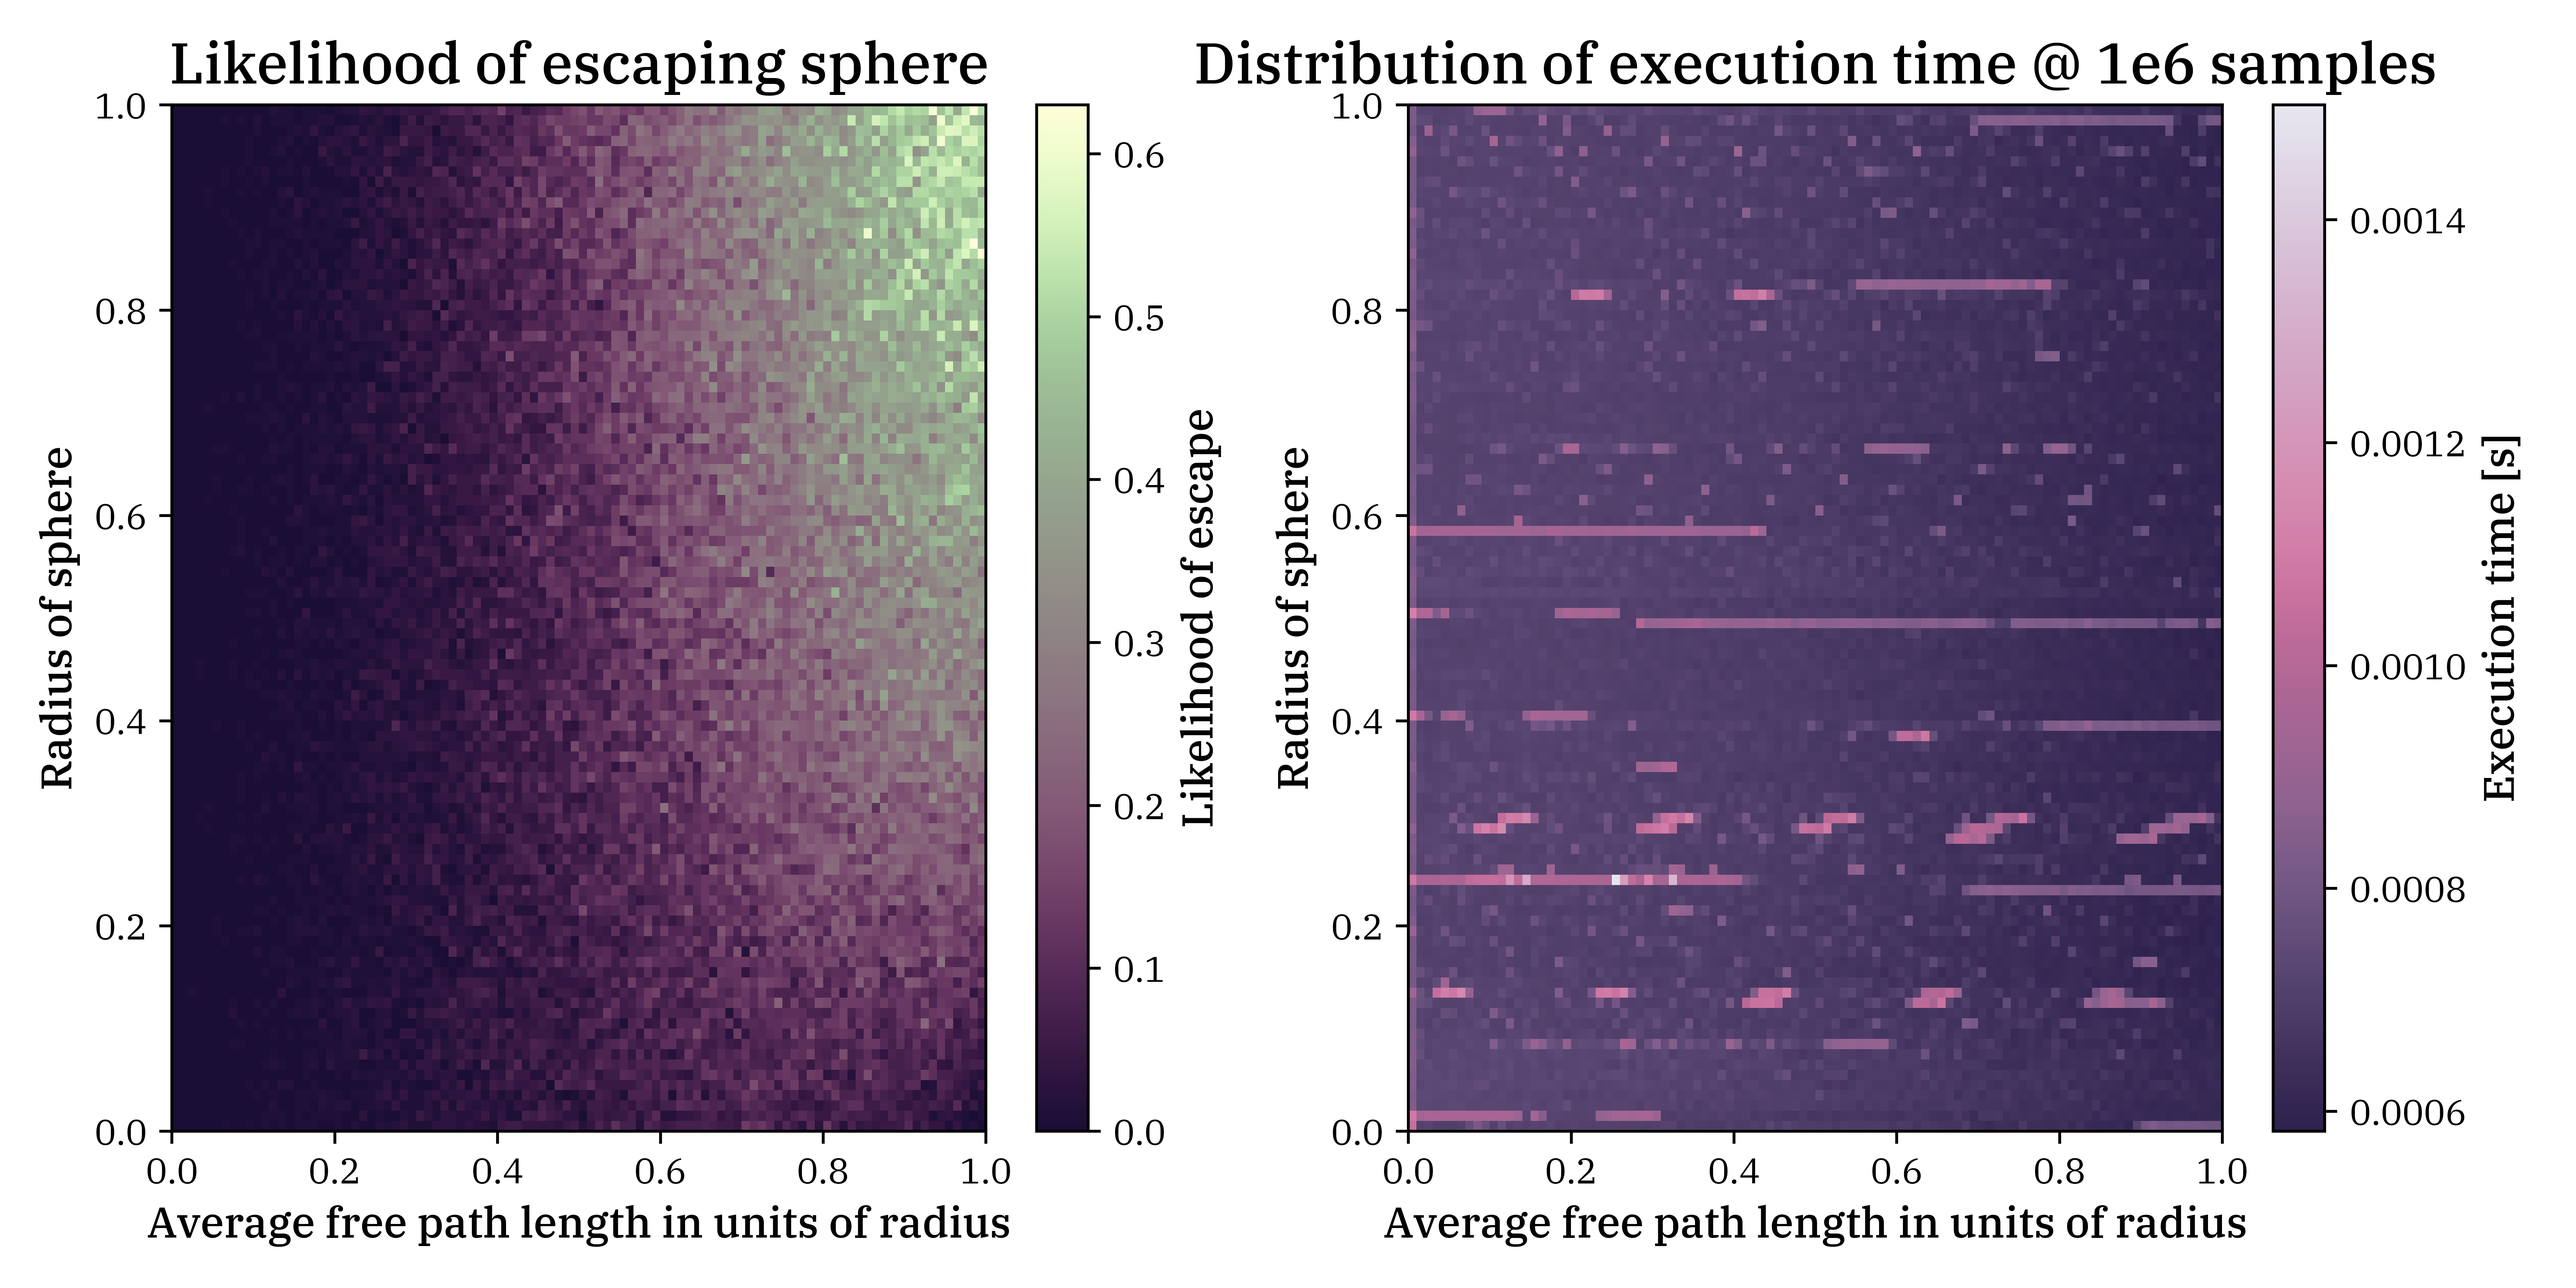
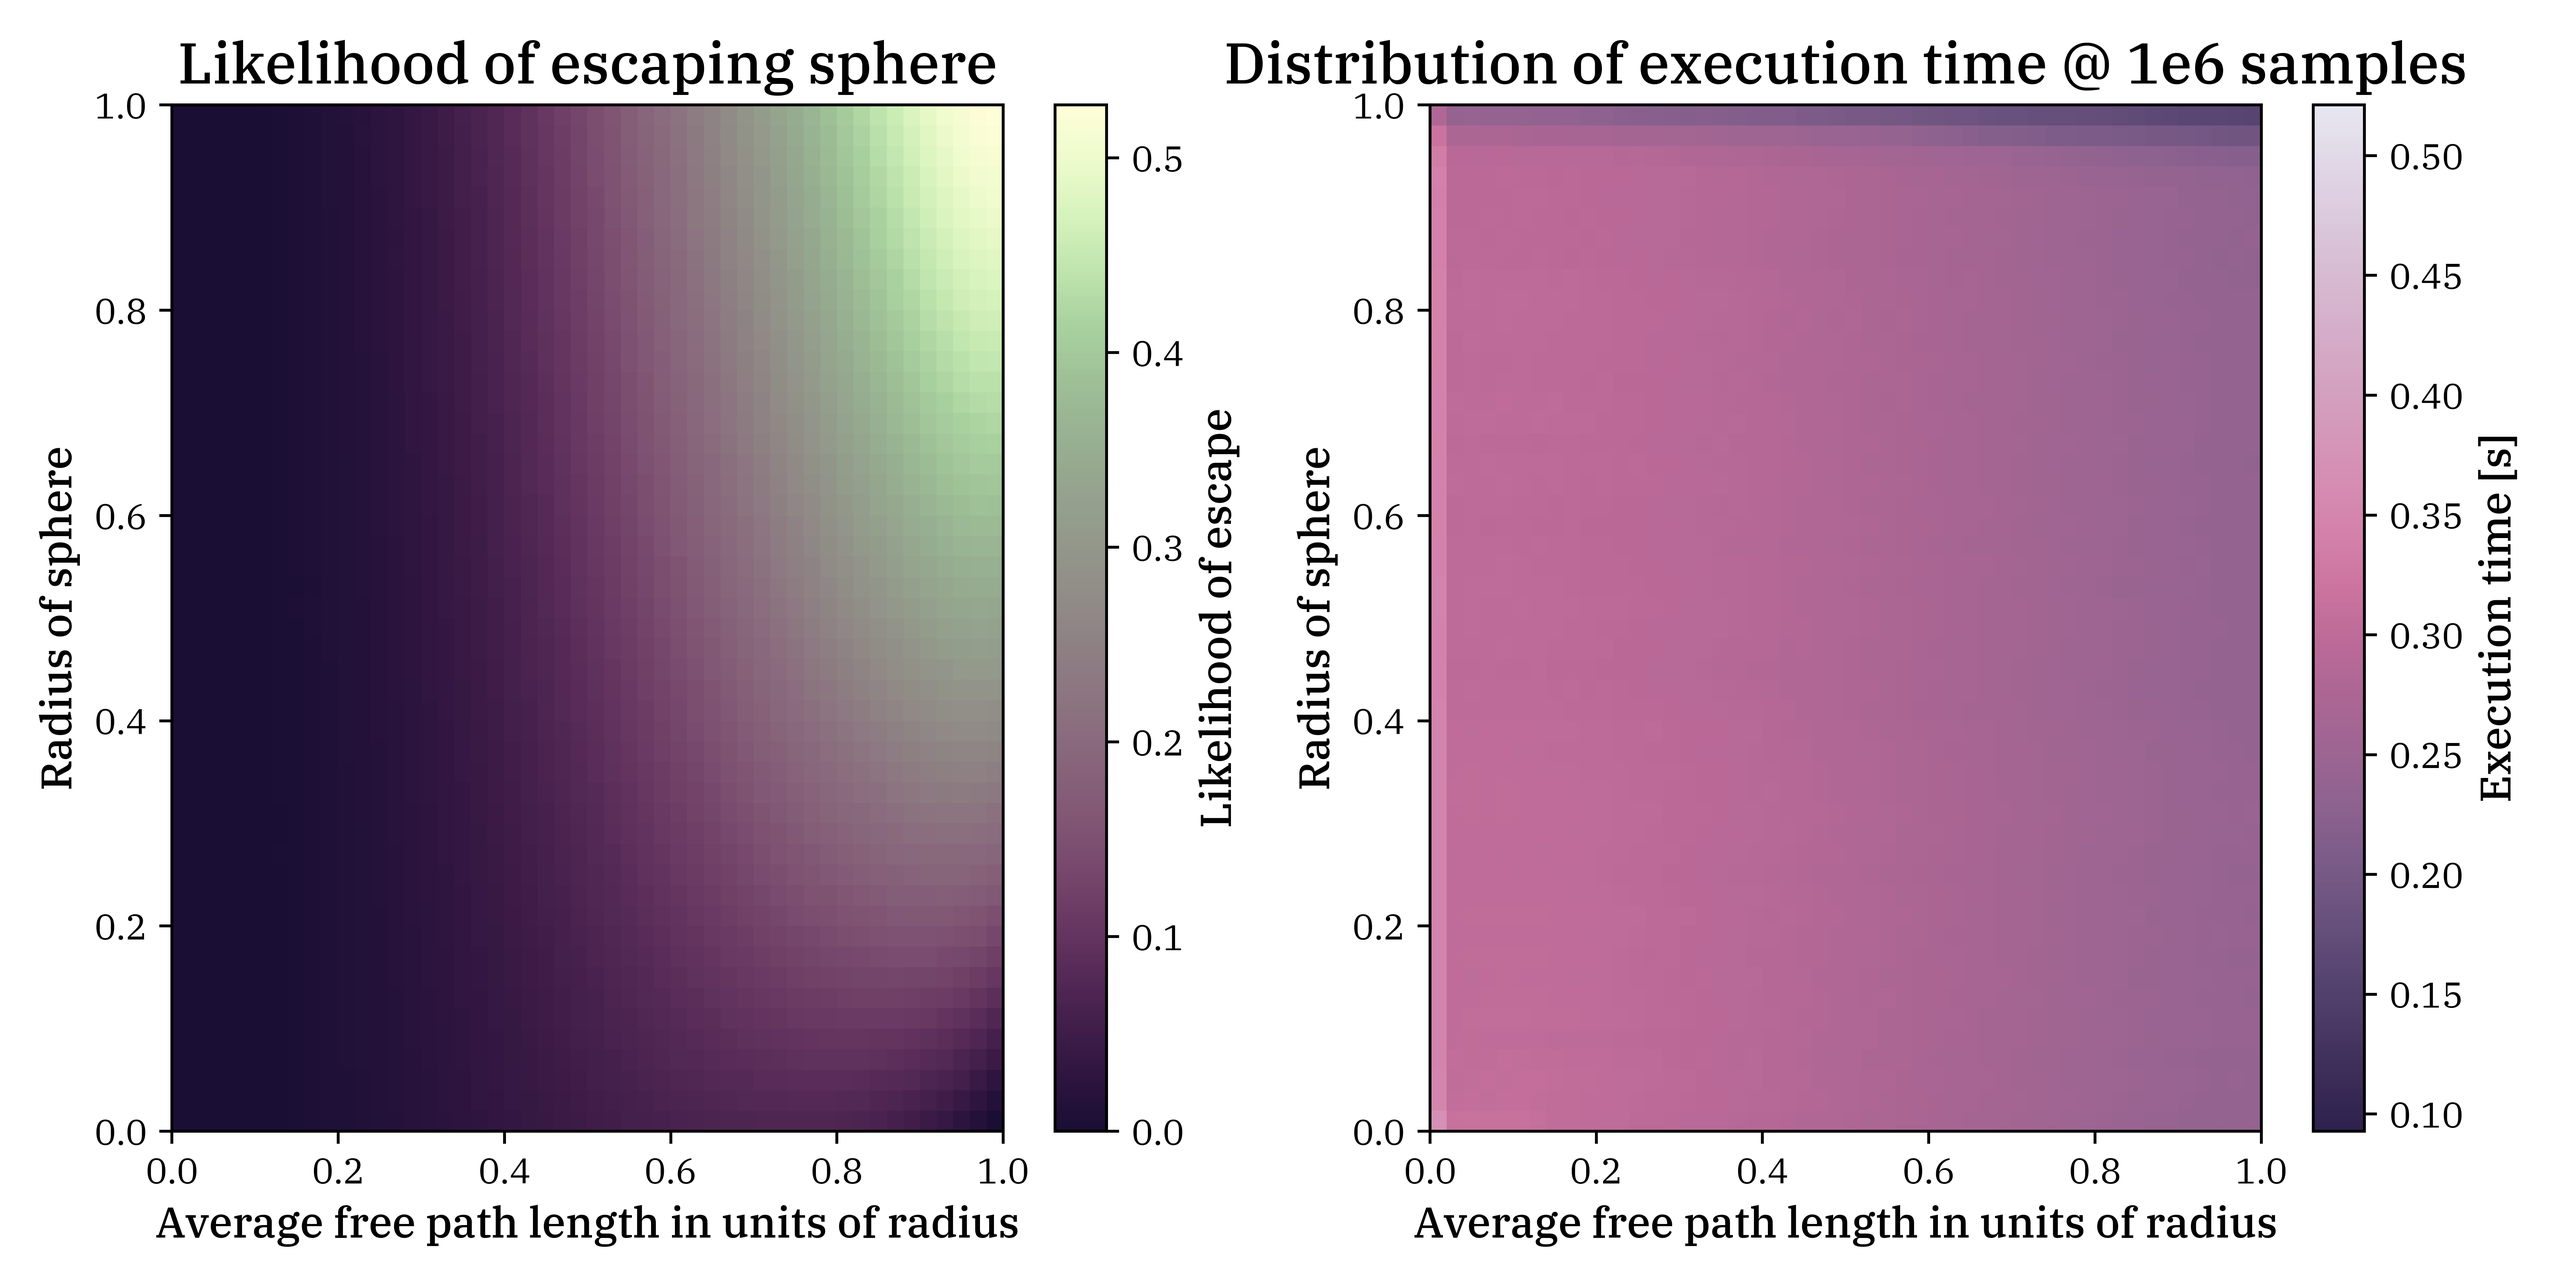
feat: :art: XR scaling plot with improved dataset

diff --git a/GammaBirth/unit_sphere.py b/GammaBirth/unit_sphere.py
@@ -70,7 +70,7 @@ if False:
     exit()
 else:
     # Load data
-    with np.load("./GammaBirth/Results/XR_scaling.npz") as data:
+    with np.load("./GammaBirth/Results/XR_scaling_reduced_size.npz") as data:
         mesh = data["mesh"]
         N_dispersion = data["N_dispersion"]
         t_exec_dispersion = data["t_exec_dispersion"]
@@ -93,7 +93,7 @@ fig, ax = plt.subplots(1, 2, figsize=(10, 5))
 X_range = np.linspace(0, 1, 50)
 R_range = np.linspace(0, 1, 50)
 
-likelihood = counter_state_dispersion / N_dispersion
+likelihood = np.average(counter_state_dispersion, axis=2) / np.average(N_dispersion, axis=2)
 
 cm_0 = pl.scientific.sequential.Tokyo_20.mpl_colormap
 norm = mpl.colors.Normalize(vmin=likelihood.min(), vmax=likelihood.max())
@@ -114,6 +114,8 @@ norm = mpl.colors.Normalize(vmin=t_exec_dispersion.min(), vmax=t_exec_dispersion
 sm = plt.cm.ScalarMappable(cmap=cm_1, norm=norm)
 cbar = fig.colorbar(sm, ax=ax[1])
 cbar.set_label("Execution time [s]")
+
+t_exec_dispersion = np.average(t_exec_dispersion, axis=2)
 
 ax[1].imshow(t_exec_dispersion, extent=[X_range[0], X_range[-1], R_range[0], R_range[-1]],
              aspect="auto", origin="lower", cmap=cm_1, norm=norm)
